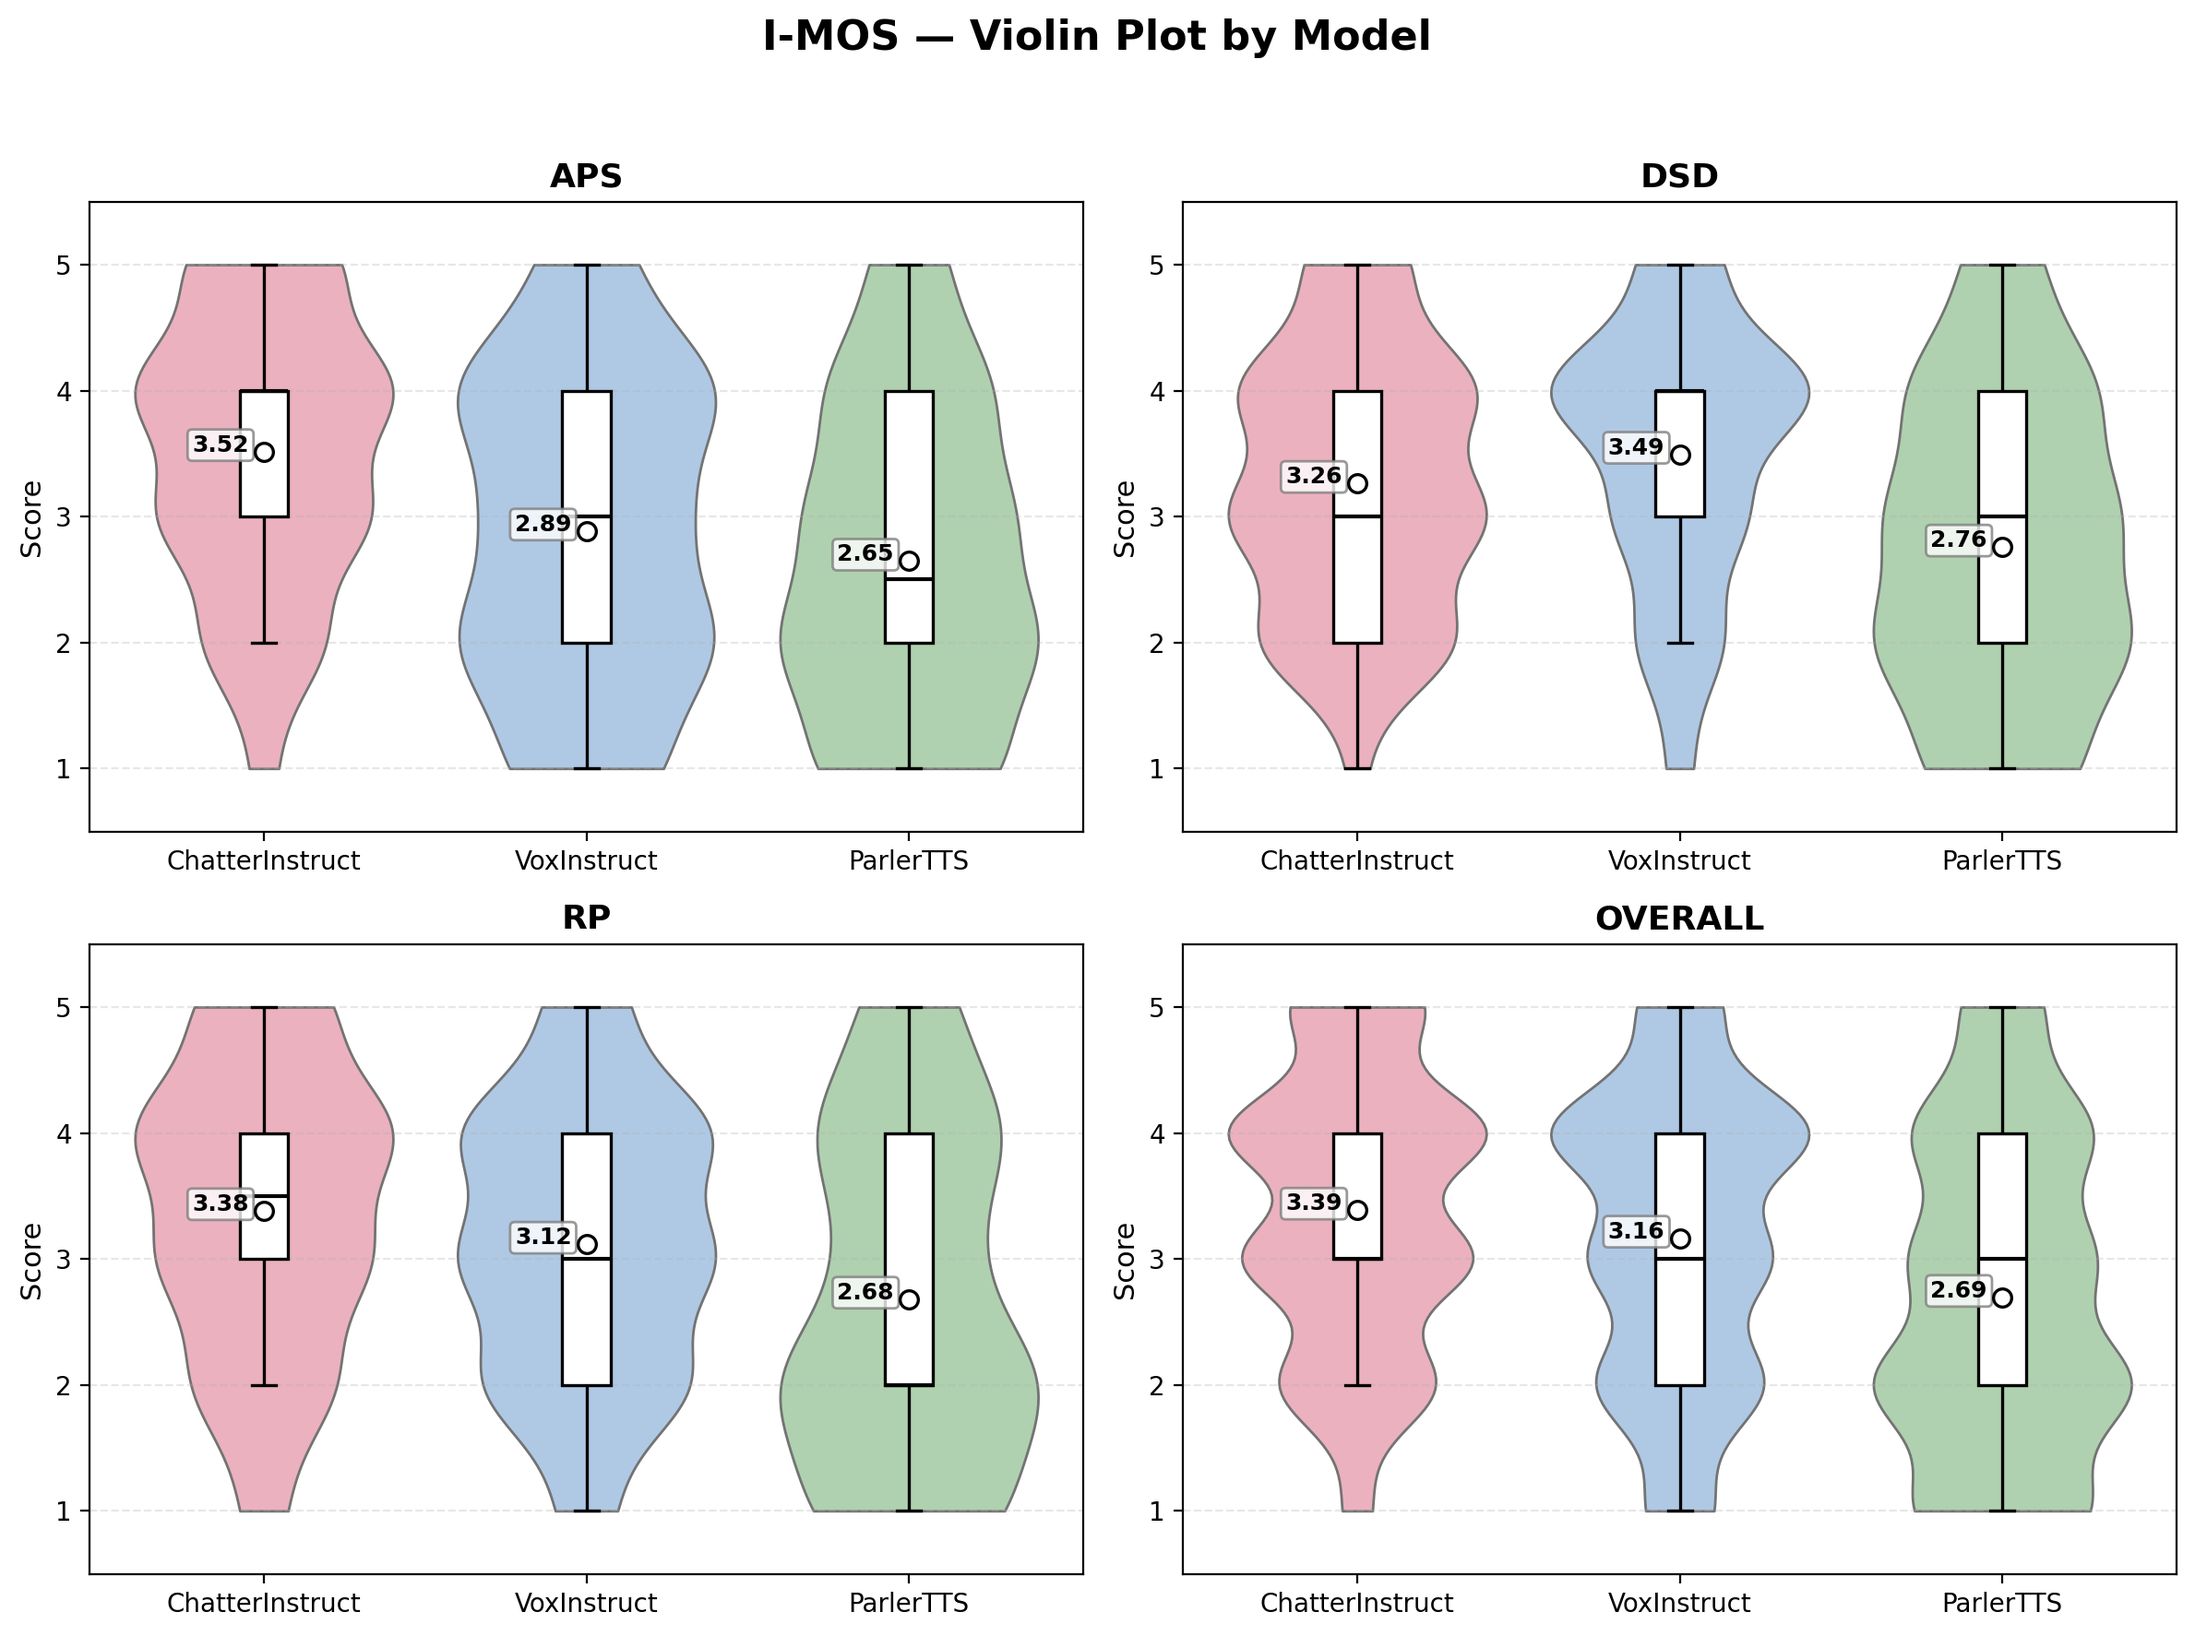
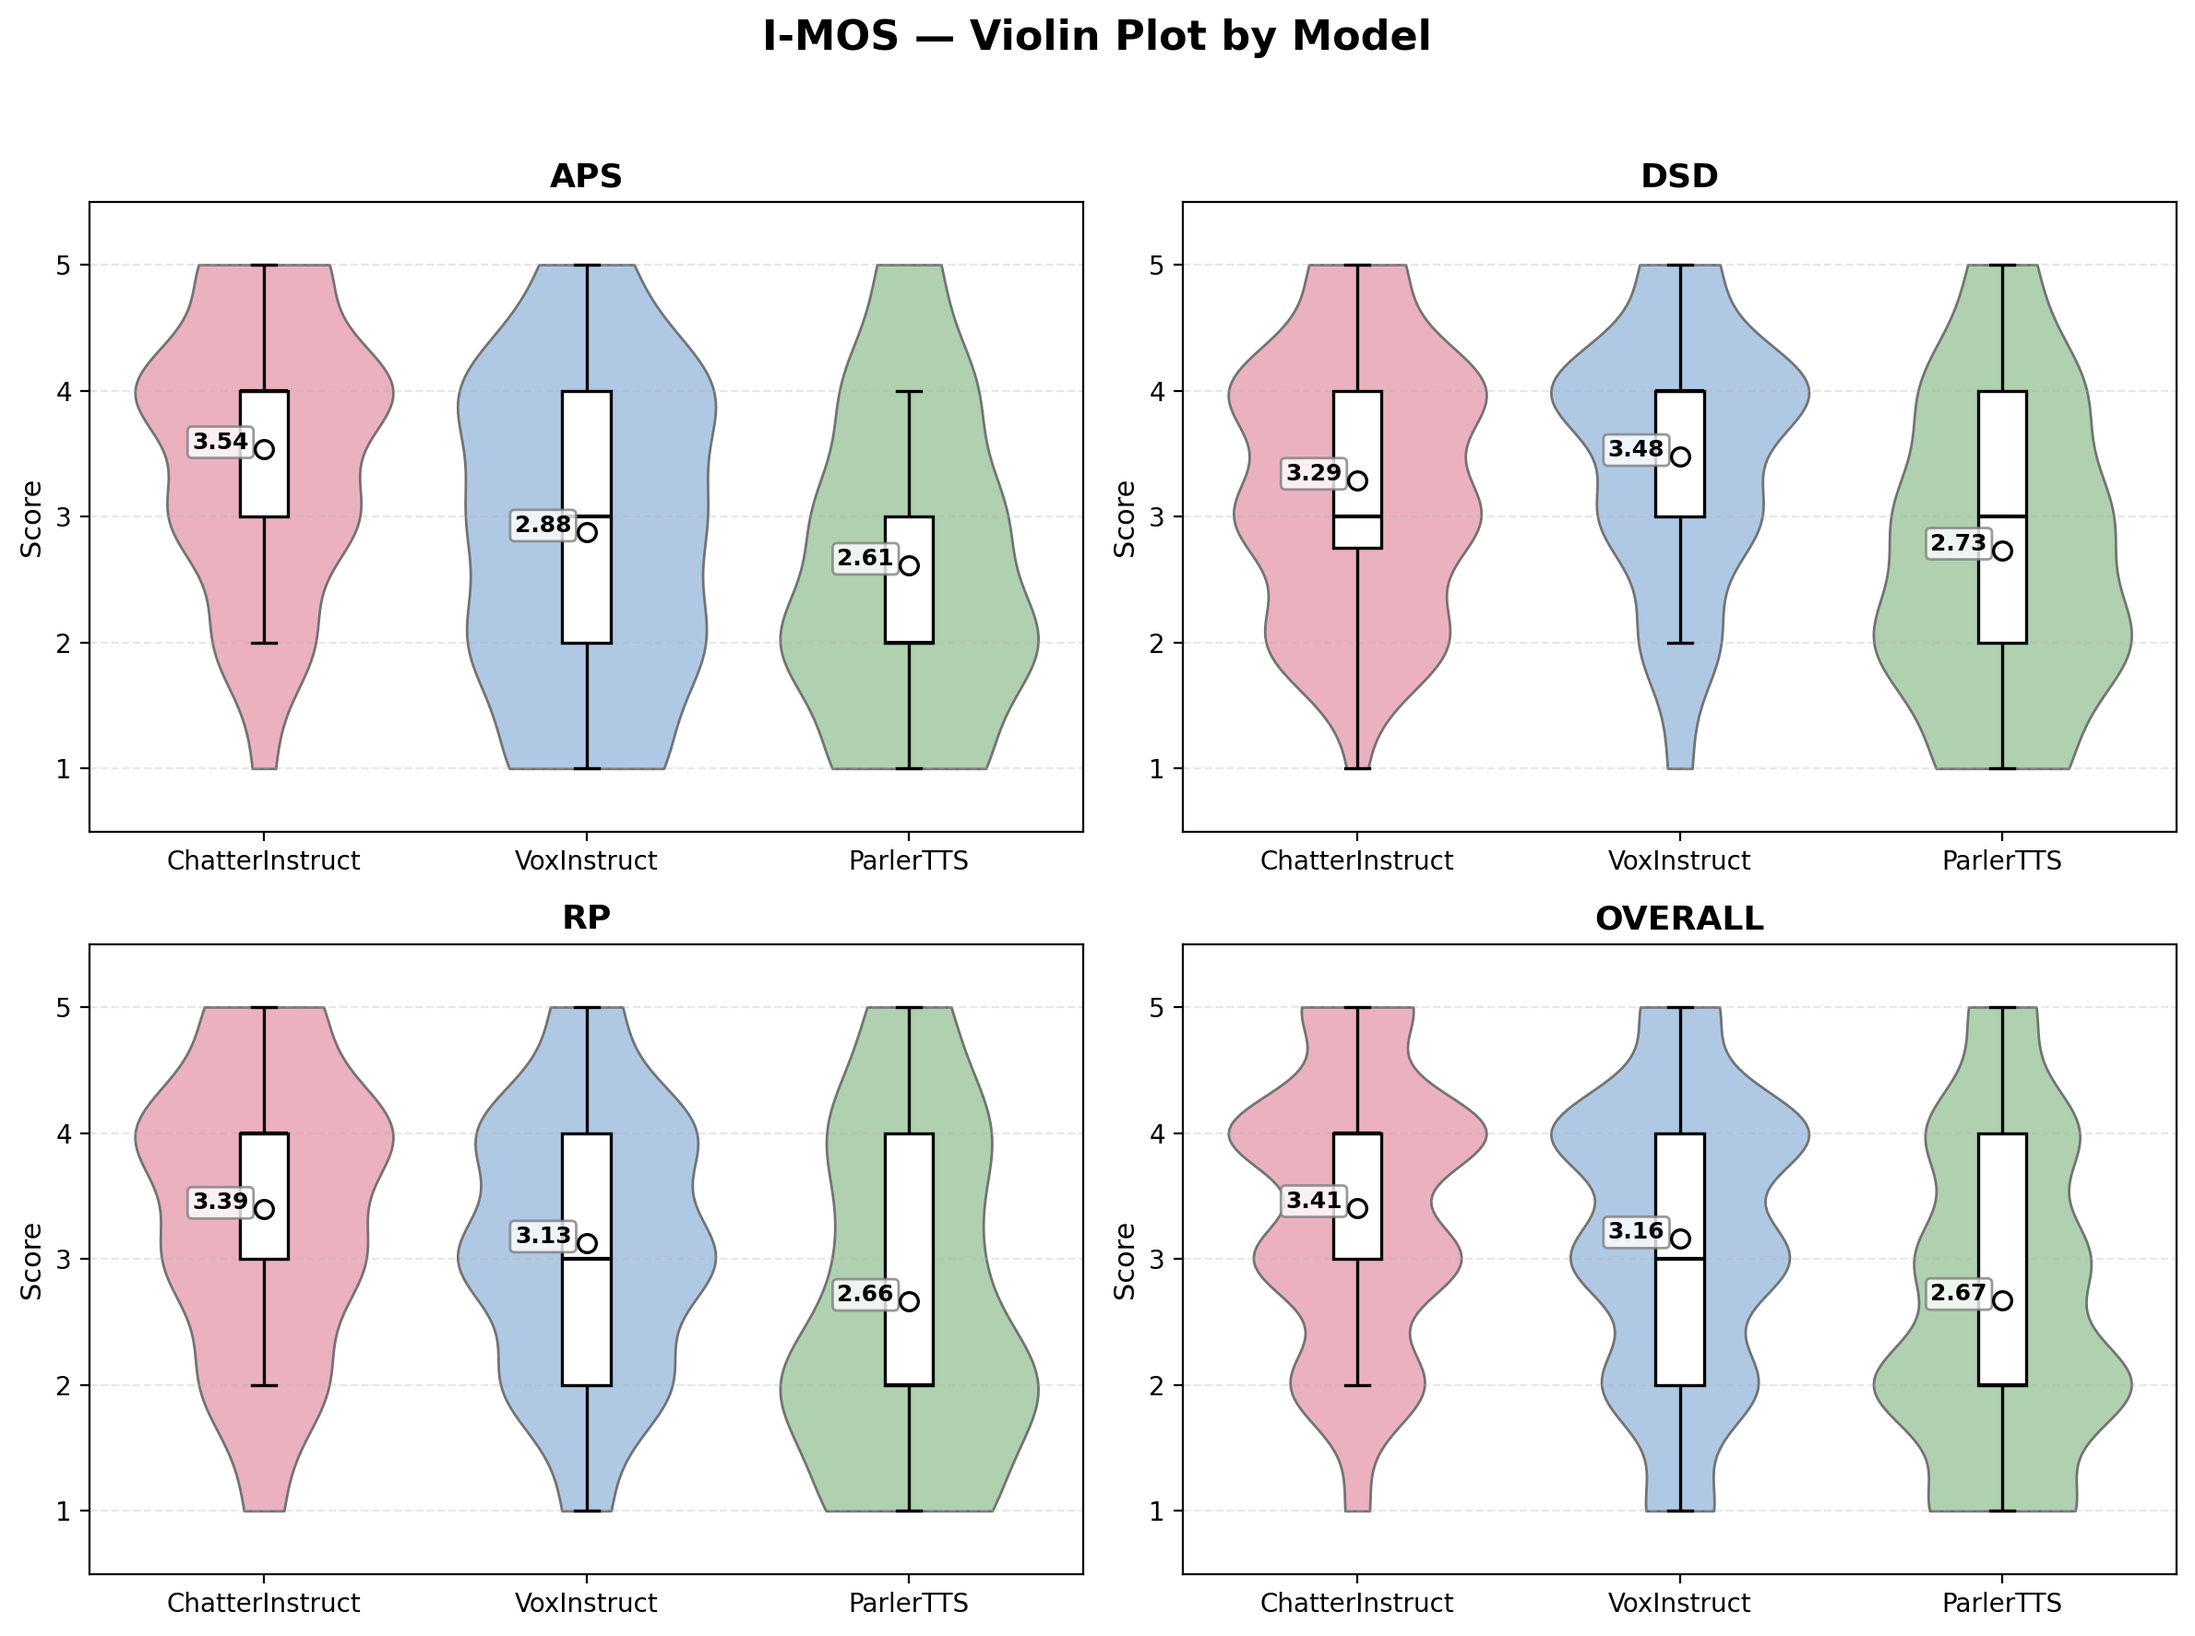
modify score

diff --git a/index.html b/index.html
@@ -168,8 +168,8 @@
         <h3>2.1. Instruction-Following (InstructTTSEval)</h3>
         <p>Instruction-following scores on InstructTTSEval (EN) and perceptual evaluation. Baseline scores are from <a
                 href="https://arxiv.org/abs/2501.12352">Huang et al.</a> <strong>CP-SECS</strong>: cross-prompt identity
-            stability (N/A for proprietary systems). Metrics: <strong>WER</strong> (word error rate),
-            <strong>Q-MOS</strong> (naturalness), <strong>I-MOS</strong> (instruction-following).
+            stability (N/A for proprietary systems). Metrics: <strong>Q-MOS</strong> (naturalness),
+            <strong>I-MOS</strong> (instruction-following), <strong>WER</strong> (word error rate).
         </p>
         <table>
             <thead>
@@ -184,9 +184,9 @@
                     <th>RP</th>
                     <th>Avg.</th>
                     <th>CP-SECS &uarr;</th>
-                    <th>WER &darr;</th>
                     <th>Q-MOS &uarr;</th>
                     <th>I-MOS &uarr;</th>
+                    <th>WER &darr;</th>
                 </tr>
             </thead>
             <tbody>
@@ -232,9 +232,9 @@
                     <td>28.6</td>
                     <td>46.9</td>
                     <td>0.716 &pm; 0.119</td>
+                    <td>2.714 &pm; 0.128</td>
+                    <td>2.670 &pm; 0.134</td>
                     <td>11.1</td>
-                    <td>2.671 &pm; 0.146</td>
-                    <td>2.682 &pm; 0.156</td>
                 </tr>
                 <tr>
                     <td style="text-align: left;">VoxInstruct</td>
@@ -243,9 +243,9 @@
                     <td>39.3</td>
                     <td>50.4</td>
                     <td>0.740 &pm; 0.118</td>
+                    <td>3.260 &pm; 0.108</td>
+                    <td>3.159 &pm; 0.124</td>
                     <td>24.0</td>
-                    <td>3.297 &pm; 0.122</td>
-                    <td>3.124 &pm; 0.143</td>
                 </tr>
                 <tr class="ours">
                     <td style="text-align: left;">ChatterInstruct (Ours)</td>
@@ -254,9 +254,9 @@
                     <td><strong>59.6</strong></td>
                     <td><strong>70.5</strong></td>
                     <td><strong>0.852 &pm; 0.074</strong></td>
+                    <td><strong>3.686 &pm; 0.089</strong></td>
+                    <td><strong>3.407 &pm; 0.117</strong></td>
                     <td><strong>2.5</strong></td>
-                    <td><strong>3.647 &pm; 0.102</strong></td>
-                    <td><strong>3.331 &pm; 0.134</strong></td>
                 </tr>
             </tbody>
         </table>
